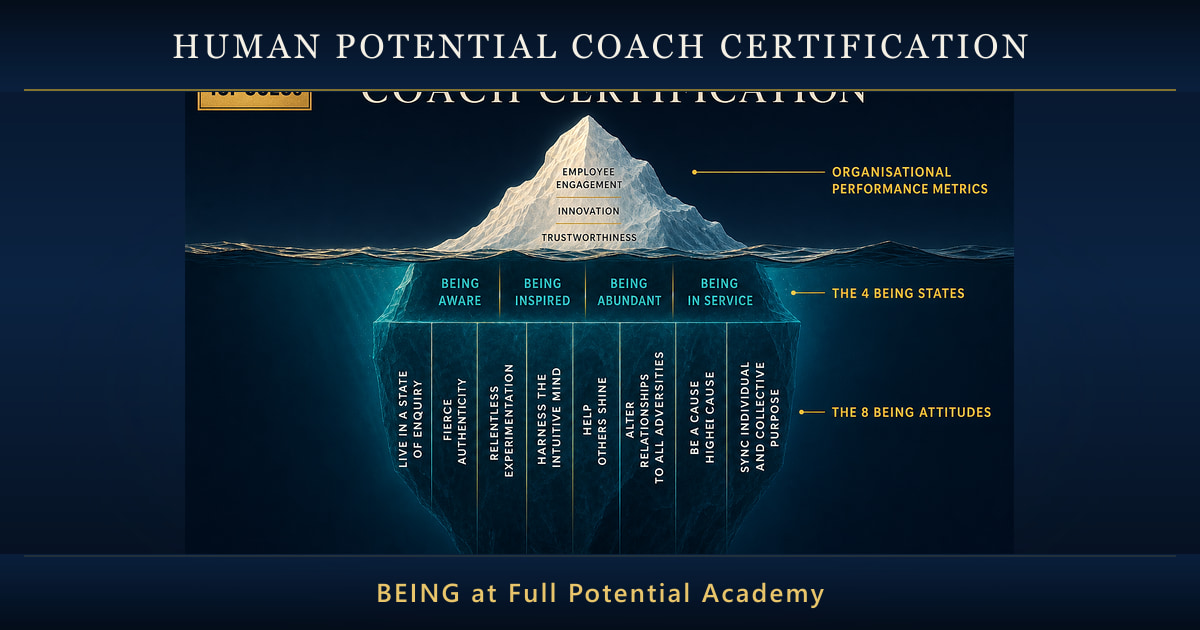
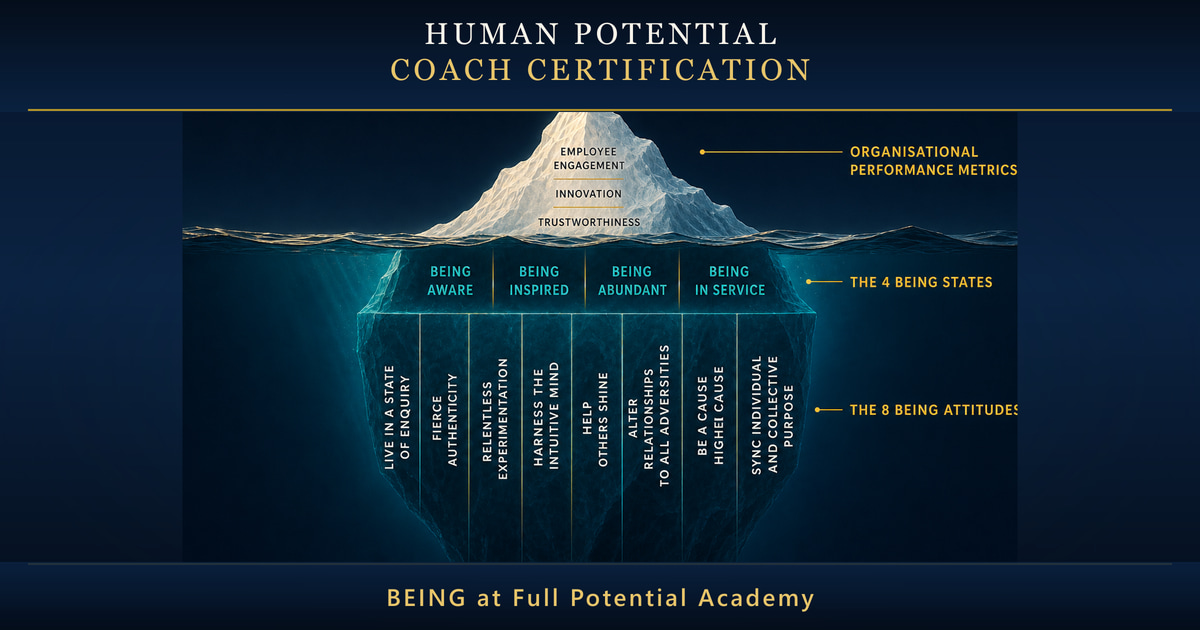
Sharpen OG share image and prevent top cropping on social previews.
Use 2x supersampling, tighter source crop, two-line header, and a cache-busting og:image URL so LinkedIn picks up the new visual.

Changed region(s): [[0.0, 0.0302, 1.0, 0.9651]]

diff --git a/lib/site-metadata.ts b/lib/site-metadata.ts
@@ -8,7 +8,8 @@ export const DEFAULT_SITE_DESCRIPTION =
   "A place to learn and grow into your full potential — certifications, trainings, and transformational programs from Being at Full Potential.";
 
 /** 1200×630 social share image derived from the HPCC course banner. */
-export const OG_IMAGE_PATH = "/Images/og/academy-hpcc-og.jpg";
+export const OG_IMAGE_VERSION = "3";
+export const OG_IMAGE_PATH = `/Images/og/academy-hpcc-og.jpg?v=${OG_IMAGE_VERSION}`;
 
 export const OG_IMAGE_ALT =
   "Certification – Human Potential Development Coach Training — Human Potential Academy";